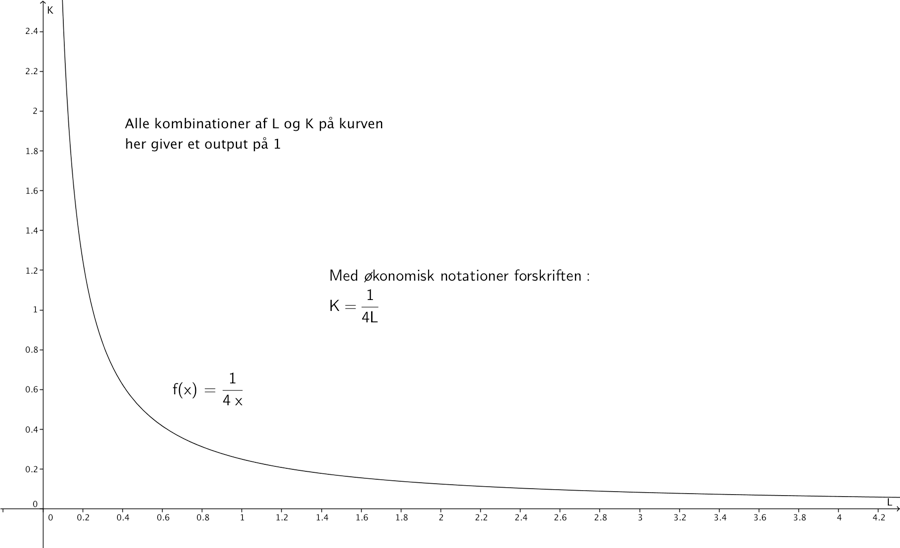
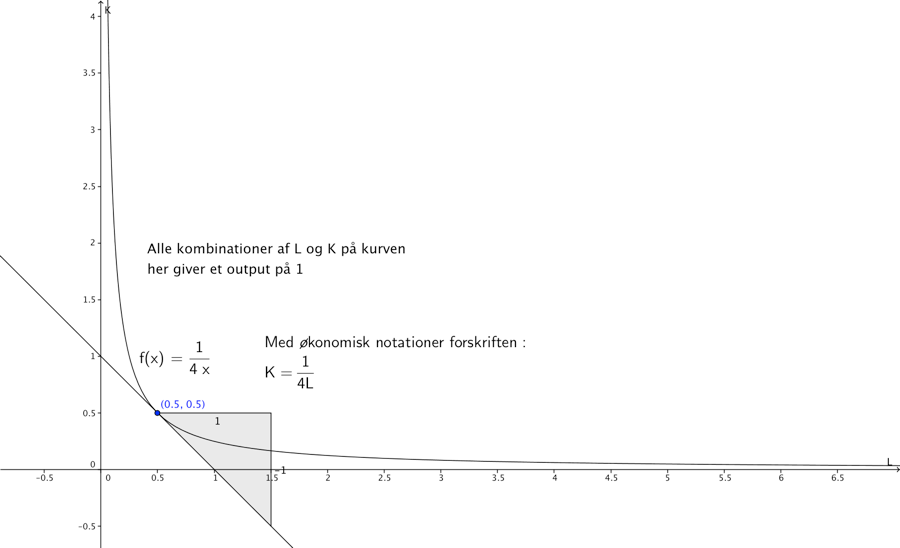
.

diff --git a/partielle-afledede-og-gradienten.html b/partielle-afledede-og-gradienten.html
@@ -249,8 +249,10 @@
 <p><span class="math display">\[\frac{1}{2 \cdot L^{0,5}} = K^{0,5}\]</span></p>
 <p><span class="math display">\[{K = \left( \frac{1}{2 \cdot L^{0,5}} \right)^{2}}\]</span></p>
 <p><span class="math display">\[{K = \frac{1}{\left( 2 \cdot L^{0,5} \right)^{2}}}{K = \frac{1}{4L}}\]</span></p>
-<p>$$$$</p>
-<p>Når man skal finde tangenthældninger til en isokvant kurve skal man bruge normal differentiation for en funktion af en variabel, for nu er vi har vi jo låst z til en fast størrelse. Man skal altså ikke finde partielle afledede til isokvant funktionen, som vi kan opfatte som en funktion af en variabel nemlig L.</p>
+<p>$$$$
+<img src="media/image69.png" style="width:6in;height:4.68403in" />
+Når man skal finde70angenthældninger til en isokvant kurve skal man b<br />
+ruge normal differentiation for en funktion af en variabel, for nu er vi har vi jo låst z til en fast størrelse. Man skal altså ikke finde partielle afledede til isokvant funktionen, som vi kan opfatte som en funktion af en variabel nemlig L.</p>
 <p>Vi får derfor for ovennævnte eksempel følgende afledede:</p>
 <p><span class="math display">\[\left( \frac{1}{4L} \right)^{&#39;} = \left( \frac{1}{4}L^{- 1} \right)^{&#39;} = - 1 \cdot \frac{1}{4}L^{- 1 - 1} = - \frac{1}{4}L^{- 2} = - \frac{1}{4 \cdot L^{2}}\]</span></p>
 <p>Den aflede angiver altså tangenthældninger i forskellige punkter <span class="math inline">\((L,K)\)</span> på isokvant kurven. Hvis vi f.eks. vælger punktet <span class="math inline">\((0.5,f\left( 0.5 \right) = \left( 0.5,\frac{1}{4 \cdot 0,5}\  \right) = (0.5,0.5)\)</span></p>
